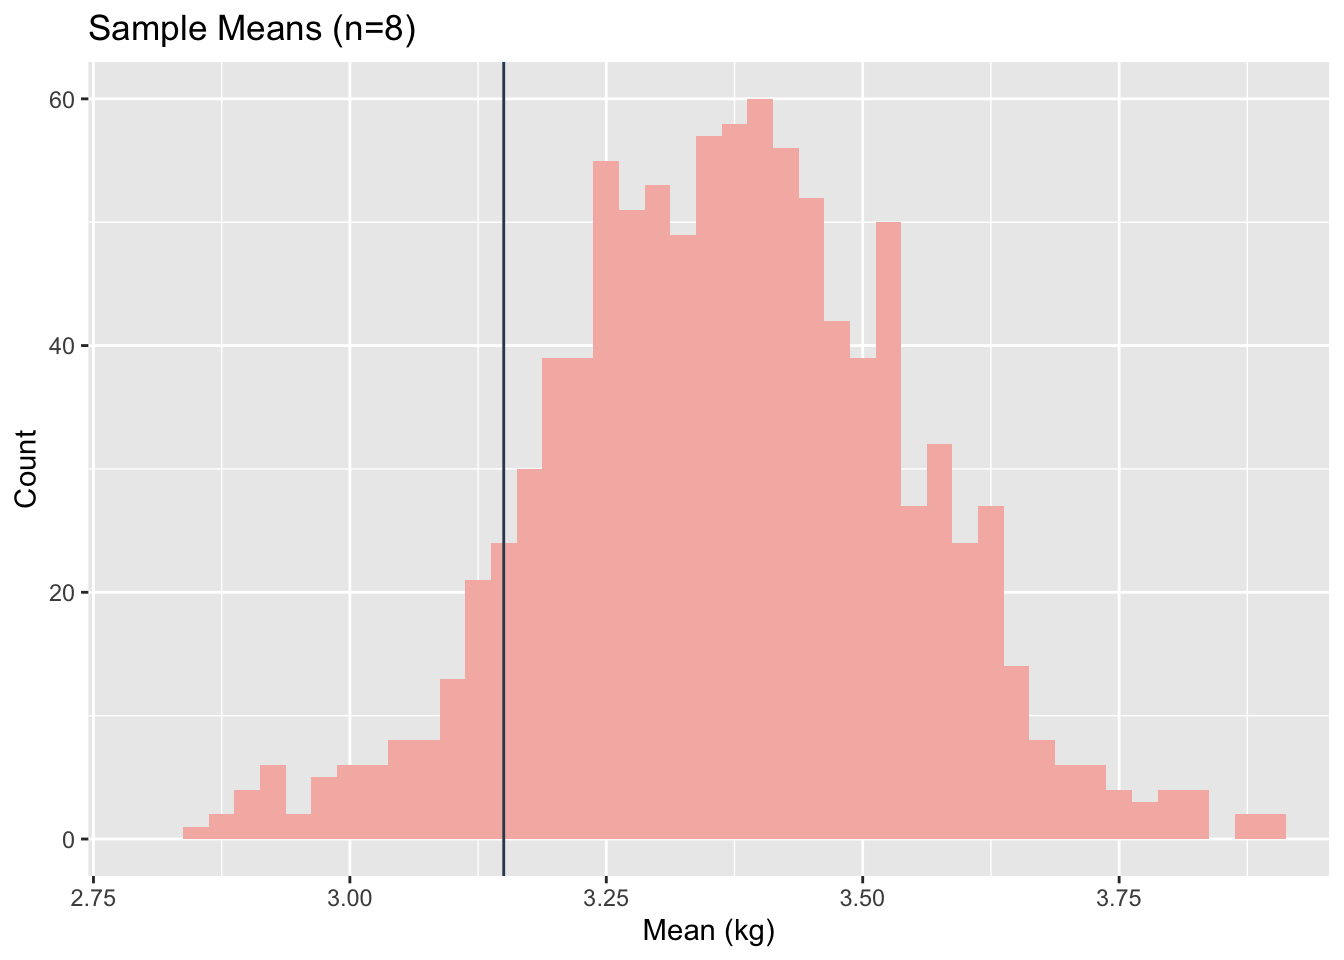
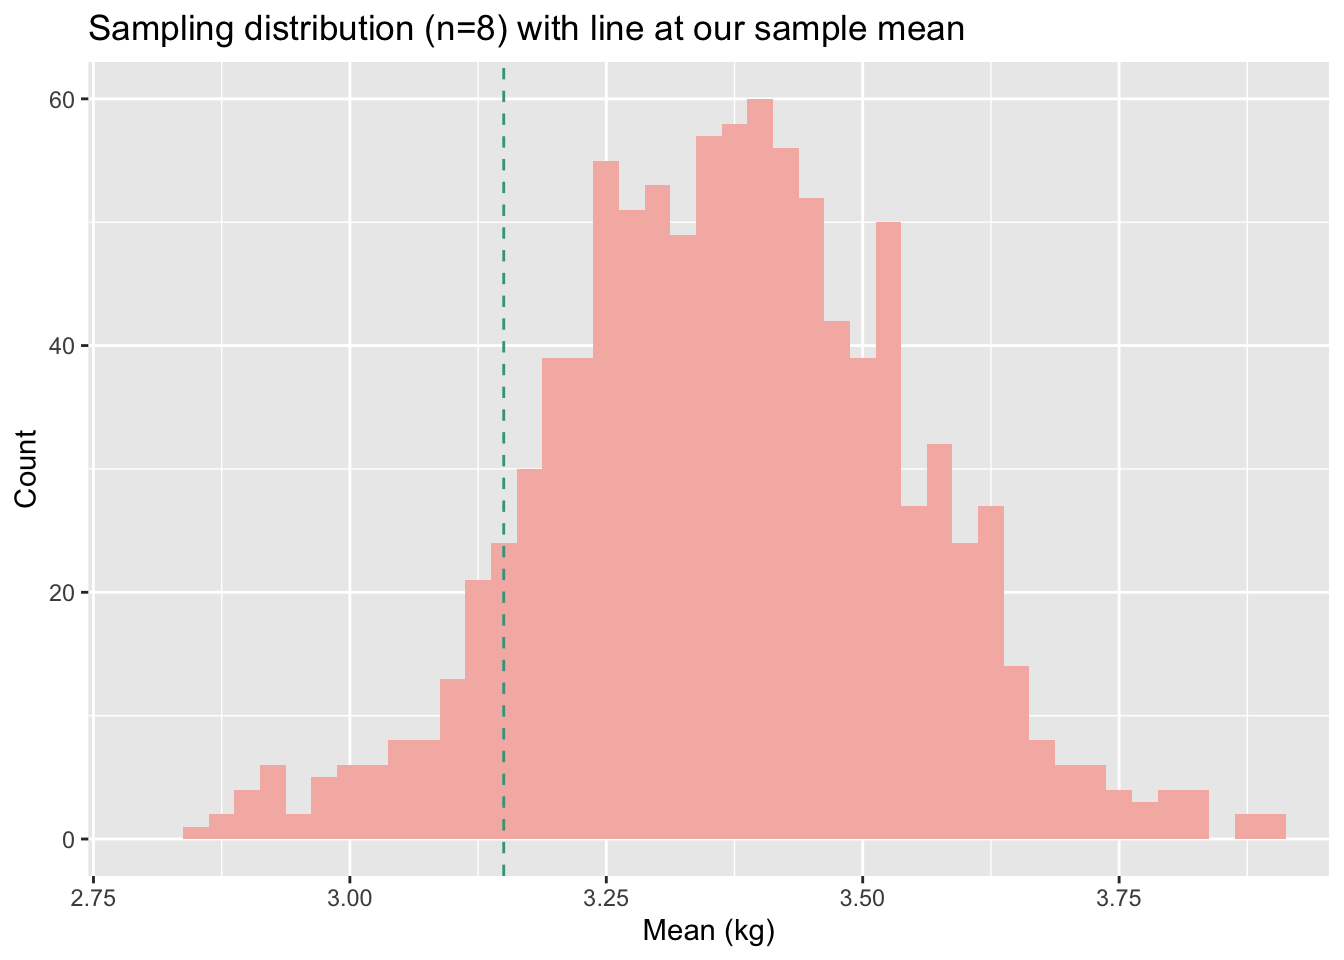
sd

Changed region(s): [[0.125, 0.0, 0.7188, 0.0625]]

diff --git a/workshops/normal_distribution_sampling/workshop_normal_sampling_solutions.html b/workshops/normal_distribution_sampling/workshop_normal_sampling_solutions.html
@@ -419,7 +419,8 @@ Illustration
 </div>
 </div>
 <p>The mean of these 8 babies is 3.15 kg. This is lower than the national average of 3.37 kg.</p>
-<p>But is it <em>unusually</em> low? To answer this, we need to know what kind of sample means we would get just by random chance. We can build a <strong>sampling distribution</strong> by drawing random samples of size <span class="math inline">\(n=8\)</span> from our population over and over again, recording the mean each time.</p>
+<p>But is it <em>unusually</em> low? To answer this, we need to know what kind of sample means we would get just by random chance if the hospital were really no different from the nation. That “no difference” claim is the <strong>null hypothesis</strong> (<span class="math inline">\(H_0\)</span>): the hospital’s mean birth weight equals the national mean.</p>
+<p>We can build a <strong>sampling distribution of the null</strong> by drawing random samples of size <span class="math inline">\(n=8\)</span> from the national <code>births</code> population over and over again and recording each mean.</p>
 <div class="cell">
 <div class="sourceCode cell-code" id="cb25"><pre class="sourceCode r code-with-copy"><code class="sourceCode r"><span id="cb25-1"><a href="#cb25-1" aria-hidden="true" tabindex="-1"></a><span class="fu">set.seed</span>(<span class="dv">123</span>) <span class="co"># for reproducibility</span></span>
 <span id="cb25-2"><a href="#cb25-2" aria-hidden="true" tabindex="-1"></a></span>
@@ -430,9 +431,9 @@ Illustration
 <span id="cb25-7"><a href="#cb25-7" aria-hidden="true" tabindex="-1"></a><span class="co"># Plot the sampling distribution</span></span>
 <span id="cb25-8"><a href="#cb25-8" aria-hidden="true" tabindex="-1"></a><span class="fu">ggplot</span>(sim_data_8, <span class="fu">aes</span>(<span class="at">x =</span> mean)) <span class="sc">+</span></span>
 <span id="cb25-9"><a href="#cb25-9" aria-hidden="true" tabindex="-1"></a>  <span class="fu">geom_histogram</span>(<span class="at">binwidth =</span> <span class="fl">0.025</span>, <span class="at">fill =</span> <span class="st">"#f5b7b1"</span>) <span class="sc">+</span></span>
-<span id="cb25-10"><a href="#cb25-10" aria-hidden="true" tabindex="-1"></a>  <span class="fu">geom_vline</span>(<span class="at">xintercept =</span> mean_flint_small, <span class="at">color =</span> <span class="st">"#34495e"</span>) <span class="sc">+</span></span>
+<span id="cb25-10"><a href="#cb25-10" aria-hidden="true" tabindex="-1"></a>  <span class="fu">geom_vline</span>(<span class="at">xintercept =</span> mean_flint_small, <span class="at">color =</span> <span class="st">"#3ea387"</span>, <span class="at">linetype =</span> <span class="st">"dashed"</span>) <span class="sc">+</span></span>
 <span id="cb25-11"><a href="#cb25-11" aria-hidden="true" tabindex="-1"></a>  <span class="fu">coord_cartesian</span>(<span class="at">xlim =</span> <span class="fu">c</span>(<span class="fl">2.8</span>, <span class="fl">3.9</span>)) <span class="sc">+</span></span>
-<span id="cb25-12"><a href="#cb25-12" aria-hidden="true" tabindex="-1"></a>  <span class="fu">labs</span>(<span class="at">title =</span> <span class="st">"Sample Means (n=8)"</span>, <span class="at">x =</span> <span class="st">"Mean (kg)"</span>, <span class="at">y =</span> <span class="st">"Count"</span>)</span></code><button title="Copy to Clipboard" class="code-copy-button"><i class="bi"></i></button></pre></div>
+<span id="cb25-12"><a href="#cb25-12" aria-hidden="true" tabindex="-1"></a>  <span class="fu">labs</span>(<span class="at">title =</span> <span class="st">"Sampling distribution (n=8) with line at our sample mean"</span>, <span class="at">x =</span> <span class="st">"Mean (kg)"</span>, <span class="at">y =</span> <span class="st">"Count"</span>)</span></code><button title="Copy to Clipboard" class="code-copy-button"><i class="bi"></i></button></pre></div>
 <div class="cell-output-display">
 <div>
 <figure class="figure">
@@ -498,9 +499,9 @@ Q2a
 <span id="cb30-6"><a href="#cb30-6" aria-hidden="true" tabindex="-1"></a><span class="co"># Plot the new sampling distribution</span></span>
 <span id="cb30-7"><a href="#cb30-7" aria-hidden="true" tabindex="-1"></a><span class="fu">ggplot</span>(sim_data_30, <span class="fu">aes</span>(<span class="at">x =</span> mean)) <span class="sc">+</span></span>
 <span id="cb30-8"><a href="#cb30-8" aria-hidden="true" tabindex="-1"></a>  <span class="fu">geom_histogram</span>(<span class="at">binwidth =</span> <span class="fl">0.025</span>, <span class="at">fill =</span> <span class="st">"#a9cce3"</span>) <span class="sc">+</span></span>
-<span id="cb30-9"><a href="#cb30-9" aria-hidden="true" tabindex="-1"></a>  <span class="fu">geom_vline</span>(<span class="at">xintercept =</span> mean_flint_large, <span class="at">color =</span> <span class="st">"#34495e"</span>) <span class="sc">+</span></span>
+<span id="cb30-9"><a href="#cb30-9" aria-hidden="true" tabindex="-1"></a>  <span class="fu">geom_vline</span>(<span class="at">xintercept =</span> mean_flint_large, <span class="at">color =</span> <span class="st">"#3ea387"</span>, <span class="at">linetype =</span> <span class="st">"dashed"</span>) <span class="sc">+</span></span>
 <span id="cb30-10"><a href="#cb30-10" aria-hidden="true" tabindex="-1"></a>  <span class="fu">coord_cartesian</span>(<span class="at">xlim =</span> <span class="fu">c</span>(<span class="fl">2.8</span>, <span class="fl">3.9</span>)) <span class="sc">+</span></span>
-<span id="cb30-11"><a href="#cb30-11" aria-hidden="true" tabindex="-1"></a>  <span class="fu">labs</span>(<span class="at">title =</span> <span class="st">"Sample Means (n=30)"</span>, <span class="at">x =</span> <span class="st">"Mean (kg)"</span>, <span class="at">y =</span> <span class="st">"Count"</span>)</span></code><button title="Copy to Clipboard" class="code-copy-button"><i class="bi"></i></button></pre></div>
+<span id="cb30-11"><a href="#cb30-11" aria-hidden="true" tabindex="-1"></a>  <span class="fu">labs</span>(<span class="at">title =</span> <span class="st">"Sampling distribution (n=30) with line at our sample mean"</span>, <span class="at">x =</span> <span class="st">"Mean (kg)"</span>, <span class="at">y =</span> <span class="st">"Count"</span>)</span></code><button title="Copy to Clipboard" class="code-copy-button"><i class="bi"></i></button></pre></div>
 <div class="cell-output-display">
 <div>
 <figure class="figure">
@@ -601,7 +602,7 @@ Illustration
 </section>
 <section id="getting-a-p-value-with-pt" class="level2">
 <h2 class="anchored" data-anchor-id="getting-a-p-value-with-pt">Getting a p-value with <code>pt()</code></h2>
-<p>Finally, we use <code>pt()</code> to turn the t-score into a p-value. This gives us the same kind of answer as the simulation: the probability of getting a sample mean this low (or lower) by chance. For a t-distribution, we also need the degrees of freedom, which is <span class="math inline">\(n - 1\)</span>.</p>
+<p>Finally, we use <code>pt()</code> to turn the t-score into a p-value. This gives us the same kind of answer as the simulation: the probability of getting a sample mean this low (or lower) <strong>if <span class="math inline">\(H_0\)</span> is true</strong>. For a t-distribution, we also need the degrees of freedom, which is <span class="math inline">\(n - 1\)</span>.</p>
 <div class="cell">
 <div class="sourceCode cell-code" id="cb37"><pre class="sourceCode r code-with-copy"><code class="sourceCode r"><span id="cb37-1"><a href="#cb37-1" aria-hidden="true" tabindex="-1"></a>p_value <span class="ot">&lt;-</span> <span class="fu">pt</span>(<span class="at">q =</span> t_score, <span class="at">df =</span> <span class="dv">30</span> <span class="sc">-</span> <span class="dv">1</span>)</span>
 <span id="cb37-2"><a href="#cb37-2" aria-hidden="true" tabindex="-1"></a>p_value</span></code><button title="Copy to Clipboard" class="code-copy-button"><i class="bi"></i></button></pre></div>
@@ -670,16 +671,25 @@ Q4c
 </div>
 </div>
 <div class="callout-body-container callout-body">
-<p>In your own words, what do the <code>t</code> statistic and the <code>p-value</code> in this output represent?</p>
-<p><strong>Ans:</strong> The t-statistic tells us how many standard errors the sample mean lies below the national population mean. The p-value is the probability of seeing a sample mean this low (or lower) purely by chance if the true mean of this dataset really were the national average.</p>
-<p>Because it is small (about 0.014), a sample mean this low would be quite unlikely under chance alone, which is evidence that this hospital sample is lighter than the national average in our exercise.</p>
+<p>In your own words, what is the <strong>null hypothesis</strong> here? What do the <code>t</code> statistic and the <code>p-value</code> tell you about it?</p>
+<p><strong>Ans:</strong> The null hypothesis is that the hospital’s mean birth weight equals the national mean (<span class="math inline">\(H_0\)</span>: <span class="math inline">\(\bar{x}_\text{hospital} = \mu_\text{national}\)</span>). The t-statistic tells us how many standard errors the hospital mean lies below the national mean. The p-value is the probability of seeing a sample mean this low (or lower) if <span class="math inline">\(H_0\)</span> were true.</p>
+<p>Because it is small (about 0.014), a mean this low would be unlikely under the null, which is evidence against <span class="math inline">\(H_0\)</span> in our exercise.</p>
 </div>
 </div>
 </section>
 </section>
 <section id="wrap-up" class="level1">
 <h1>Wrap up</h1>
-<p>You’ve successfully: - Checked a population for normality and calculated probabilities with <code>pnorm()</code> - Standardized values using Z-scores - Simulated sampling distributions using <code>replicate()</code> - Demonstrated the Central Limit Theorem by comparing distributions for <span class="math inline">\(n=8\)</span> and <span class="math inline">\(n=30\)</span> - Calculated Standard Errors and t-statistics by hand - Run a formal one-sample t-test using <code>t.test()</code> - Connected the hospital example to real Flint water crisis research, while using illustrative weights for practice</p>
+<p>You’ve successfully:</p>
+<ul>
+<li>Checked a population for normality and calculated probabilities with <code>pnorm()</code></li>
+<li>Standardized values using Z-scores</li>
+<li>Simulated sampling distributions using <code>replicate()</code></li>
+<li>Demonstrated the Central Limit Theorem by comparing distributions for <span class="math inline">\(n=8\)</span> and <span class="math inline">\(n=30\)</span></li>
+<li>Calculated Standard Errors and t-statistics by hand</li>
+<li>Run a formal one-sample t-test using <code>t.test()</code></li>
+<li>Connected the hospital example to real Flint water crisis research, while using illustrative weights for practice</li>
+</ul>
 <p>Great work! Save and submit your Qmd.</p>
 </section>
 
